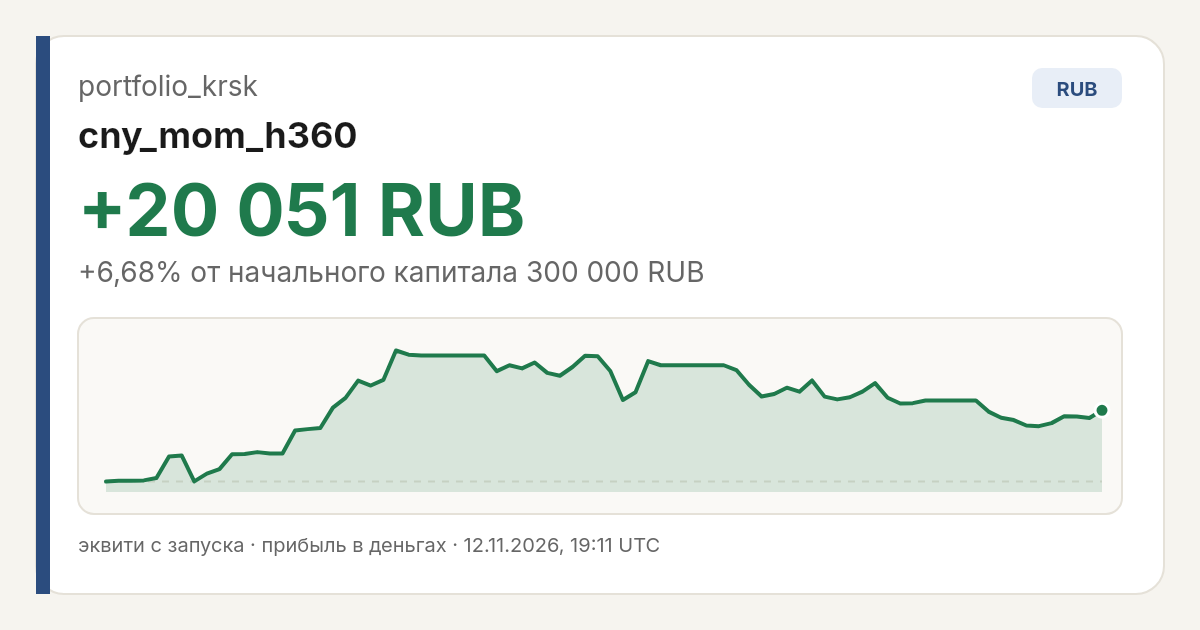
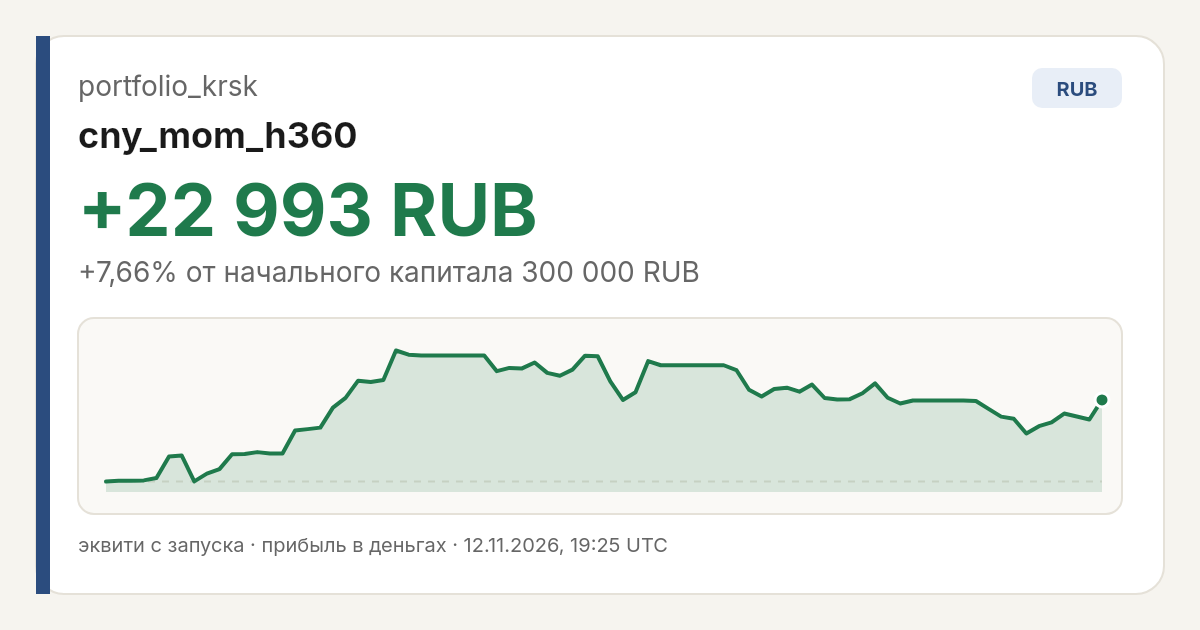
sync equity data 2026-11-12T19:25:33Z

diff --git a/share.html b/share.html
@@ -4,23 +4,23 @@
     <meta charset="UTF-8" />
     <meta name="viewport" content="width=device-width, initial-scale=1.0" />
     <title>portfolio_krsk - cny_mom_h360</title>
-    <meta name="description" content="cny_mom_h360: +20 051 RUB (+6,68%) с запуска. Лидер обложки выбран по доходности в процентах от начального капитала; суммы в разных валютах не сравниваются." />
+    <meta name="description" content="cny_mom_h360: +22 993 RUB (+7,66%) с запуска. Лидер обложки выбран по доходности в процентах от начального капитала; суммы в разных валютах не сравниваются." />
     <meta property="og:title" content="portfolio_krsk - cny_mom_h360" />
-    <meta property="og:description" content="cny_mom_h360: +20 051 RUB (+6,68%) с запуска. Лидер обложки выбран по доходности в процентах от начального капитала; суммы в разных валютах не сравниваются." />
+    <meta property="og:description" content="cny_mom_h360: +22 993 RUB (+7,66%) с запуска. Лидер обложки выбран по доходности в процентах от начального капитала; суммы в разных валютах не сравниваются." />
     <meta property="og:url" content="https://portfolio-krsk.vercel.app/" />
     <meta property="og:site_name" content="portfolio_krsk" />
     <meta property="og:locale" content="ru_RU" />
     <meta property="og:type" content="website" />
-    <meta property="og:image" content="https://varshavskiy1-beep.github.io/portfolio-krsk/og-cover.jpg?v=202611121911" />
-    <meta property="og:image:secure_url" content="https://varshavskiy1-beep.github.io/portfolio-krsk/og-cover.jpg?v=202611121911" />
+    <meta property="og:image" content="https://varshavskiy1-beep.github.io/portfolio-krsk/og-cover.jpg?v=202611121925" />
+    <meta property="og:image:secure_url" content="https://varshavskiy1-beep.github.io/portfolio-krsk/og-cover.jpg?v=202611121925" />
     <meta property="og:image:type" content="image/jpeg" />
     <meta property="og:image:width" content="1200" />
     <meta property="og:image:height" content="630" />
-    <link rel="image_src" href="https://varshavskiy1-beep.github.io/portfolio-krsk/og-cover.jpg?v=202611121911" />
+    <link rel="image_src" href="https://varshavskiy1-beep.github.io/portfolio-krsk/og-cover.jpg?v=202611121925" />
     <meta name="twitter:card" content="summary_large_image" />
     <meta name="twitter:title" content="portfolio_krsk - cny_mom_h360" />
-    <meta name="twitter:description" content="cny_mom_h360: +20 051 RUB (+6,68%) с запуска. Лидер обложки выбран по доходности в процентах от начального капитала; суммы в разных валютах не сравниваются." />
-    <meta name="twitter:image" content="https://varshavskiy1-beep.github.io/portfolio-krsk/og-cover.jpg?v=202611121911" />
+    <meta name="twitter:description" content="cny_mom_h360: +22 993 RUB (+7,66%) с запуска. Лидер обложки выбран по доходности в процентах от начального капитала; суммы в разных валютах не сравниваются." />
+    <meta name="twitter:image" content="https://varshavskiy1-beep.github.io/portfolio-krsk/og-cover.jpg?v=202611121925" />
     <meta http-equiv="refresh" content="0; url=/" />
     <script>location.replace("/")</script>
     <style>
@@ -49,9 +49,9 @@
   </head>
   <body>
     <main>
-      <img src="https://varshavskiy1-beep.github.io/portfolio-krsk/og-cover.jpg?v=202611121911" alt="portfolio_krsk - cny_mom_h360" width="1200" height="630" />
+      <img src="https://varshavskiy1-beep.github.io/portfolio-krsk/og-cover.jpg?v=202611121925" alt="portfolio_krsk - cny_mom_h360" width="1200" height="630" />
       <noscript>
-        <p>cny_mom_h360: +20 051 RUB (+6,68%) с запуска. Лидер обложки выбран по доходности в процентах от начального капитала; суммы в разных валютах не сравниваются.</p>
+        <p>cny_mom_h360: +22 993 RUB (+7,66%) с запуска. Лидер обложки выбран по доходности в процентах от начального капитала; суммы в разных валютах не сравниваются.</p>
         <p><a href="/">Открыть кабинет portfolio_krsk</a></p>
       </noscript>
     </main>
